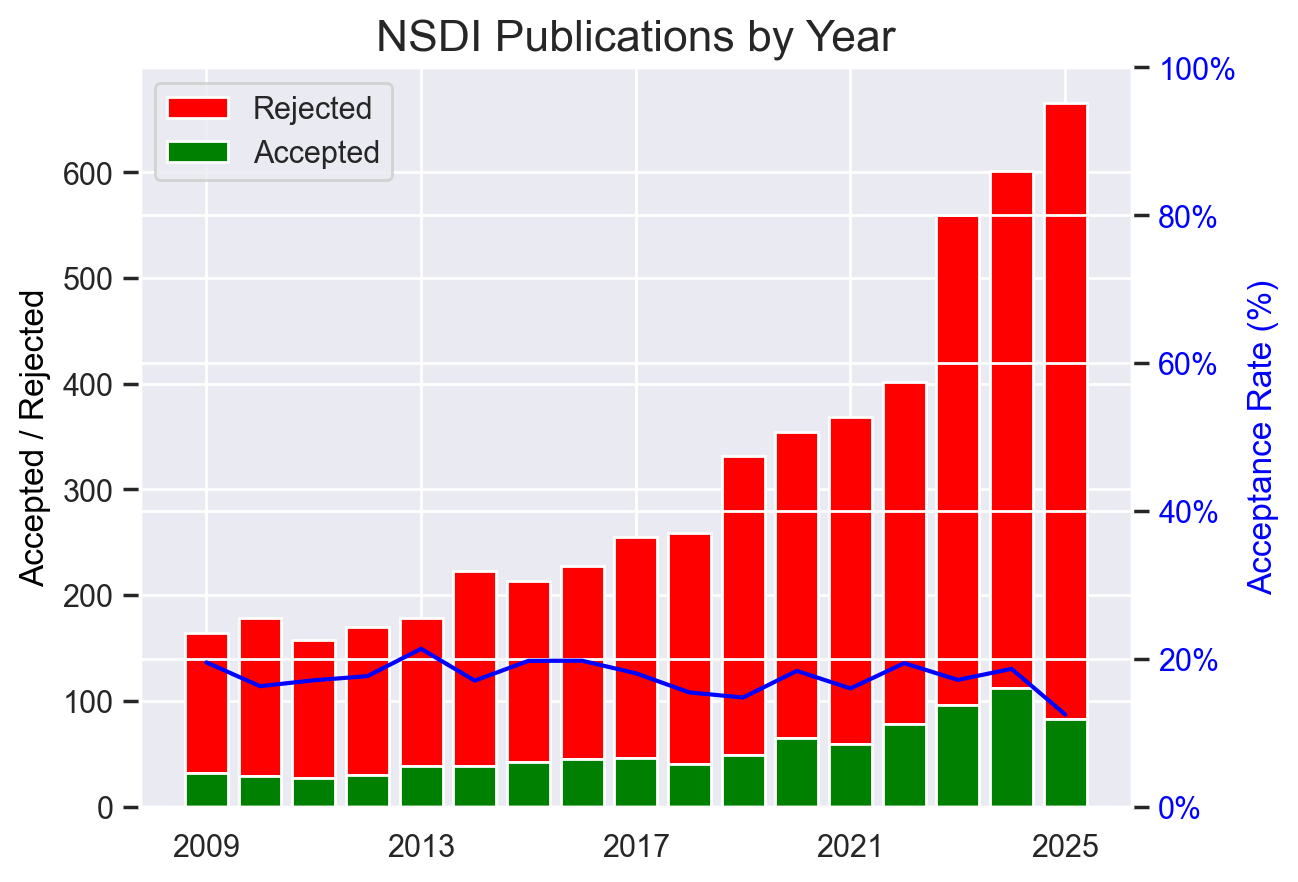
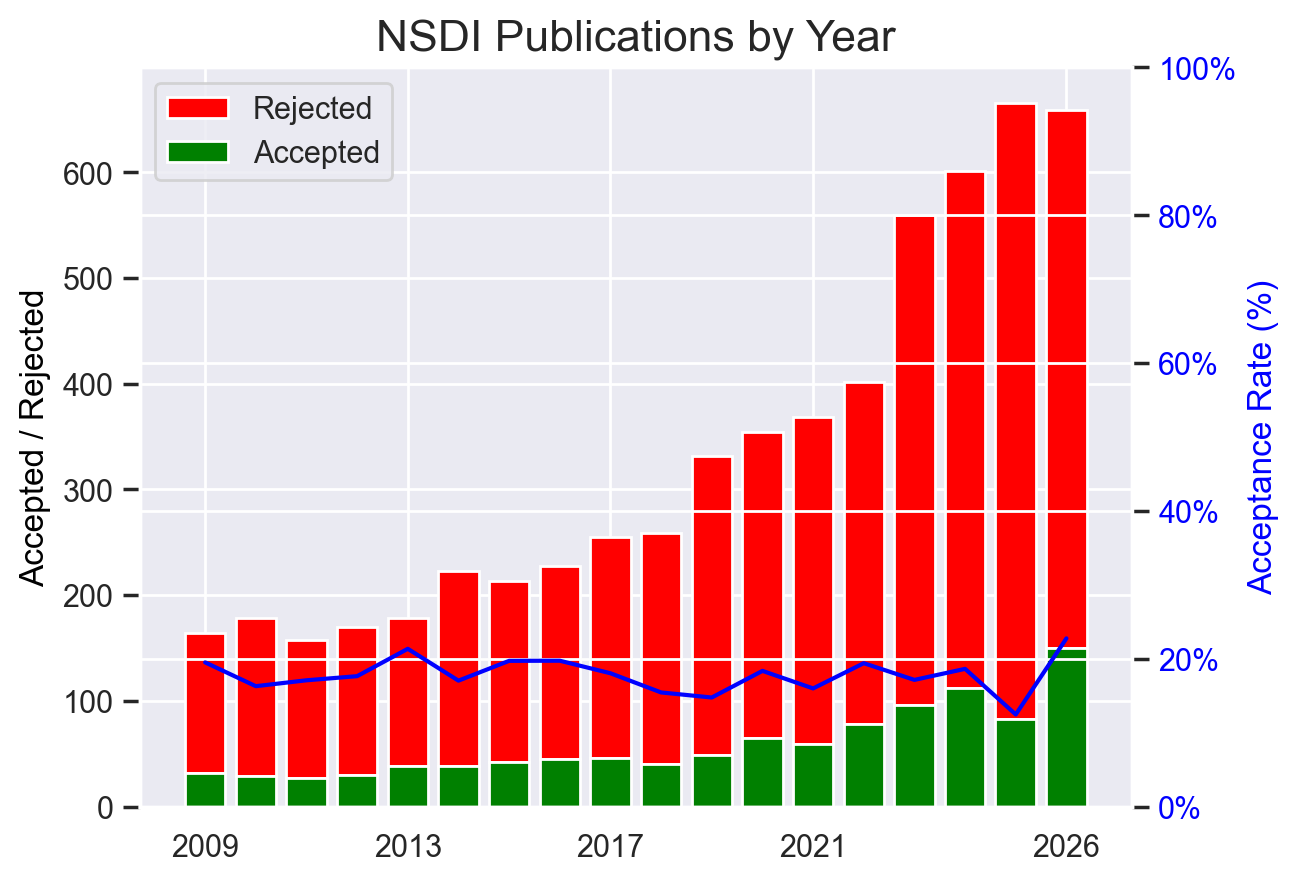
Updated.

diff --git a/build.py b/build.py
@@ -39,6 +39,7 @@ dblp_dir_overrides = {
     'EC': 'sigecom',
     'Oakland': 'sp',
     'UsenixSec': 'uss',
+    'ATC': 'usenix-atc',
 }
 
 def dblp_dir(conference: str) -> str:

diff --git a/README.md b/README.md
@@ -198,7 +198,7 @@
 </summary>
 <A NAME="NSDI"></A>
 <P><B><A HREF="https://dblp.org/db/conf/nsdi/index.html">NSDI</A></B>
- <em>mean acceptance rate, last 5 years: 17%</em></P>
+ <em>mean acceptance rate, last 5 years: 18%</em></P>
 <IMG SRC="https://github.com/emeryberger/csconferences/blob/main/graphs/NSDI.png?raw=true" WIDTH="500">
 <A NAME="SIGCOMM"></A>
 <P><B><A HREF="https://dblp.org/db/conf/sigcomm/index.html">SIGCOMM</A></B>
@@ -209,13 +209,17 @@
 <summary>
 <em>OS</em>: <b>Operating systems</b>
 </summary>
+<A NAME="ATC"></A>
+<P><B><A HREF="https://dblp.org/db/conf/usenix-atc/index.html">ATC</A></B>
+ <em>mean acceptance rate, last 5 years: 17%</em></P>
+<IMG SRC="https://github.com/emeryberger/csconferences/blob/main/graphs/ATC.png?raw=true" WIDTH="500">
 <A NAME="EuroSys"></A>
 <P><B><A HREF="https://dblp.org/db/conf/eurosys/index.html">EuroSys</A></B>
- <em>mean acceptance rate, last 5 years: 19%</em></P>
+ <em>mean acceptance rate, last 5 years: 18%</em></P>
 <IMG SRC="https://github.com/emeryberger/csconferences/blob/main/graphs/EuroSys.png?raw=true" WIDTH="500">
 <A NAME="FAST"></A>
 <P><B><A HREF="https://dblp.org/db/conf/fast/index.html">FAST</A></B>
- <em>mean acceptance rate, last 5 years: 21%</em></P>
+ <em>mean acceptance rate, last 5 years: 20%</em></P>
 <IMG SRC="https://github.com/emeryberger/csconferences/blob/main/graphs/FAST.png?raw=true" WIDTH="500">
 <A NAME="OSDI"></A>
 <P><B><A HREF="https://dblp.org/db/conf/osdi/index.html">OSDI</A></B>
@@ -225,10 +229,6 @@
 <P><B><A HREF="https://dblp.org/db/conf/sosp/index.html">SOSP</A></B>
  <em>mean acceptance rate, last 5 years: 17%</em></P>
 <IMG SRC="https://github.com/emeryberger/csconferences/blob/main/graphs/SOSP.png?raw=true" WIDTH="500">
-<A NAME="USENIX-ATC"></A>
-<P><B><A HREF="https://dblp.org/db/conf/usenix-atc/index.html">USENIX-ATC</A></B>
- <em>mean acceptance rate, last 5 years: 17%</em></P>
-<IMG SRC="https://github.com/emeryberger/csconferences/blob/main/graphs/USENIX-ATC.png?raw=true" WIDTH="500">
 </details>
 <details>
 <summary>